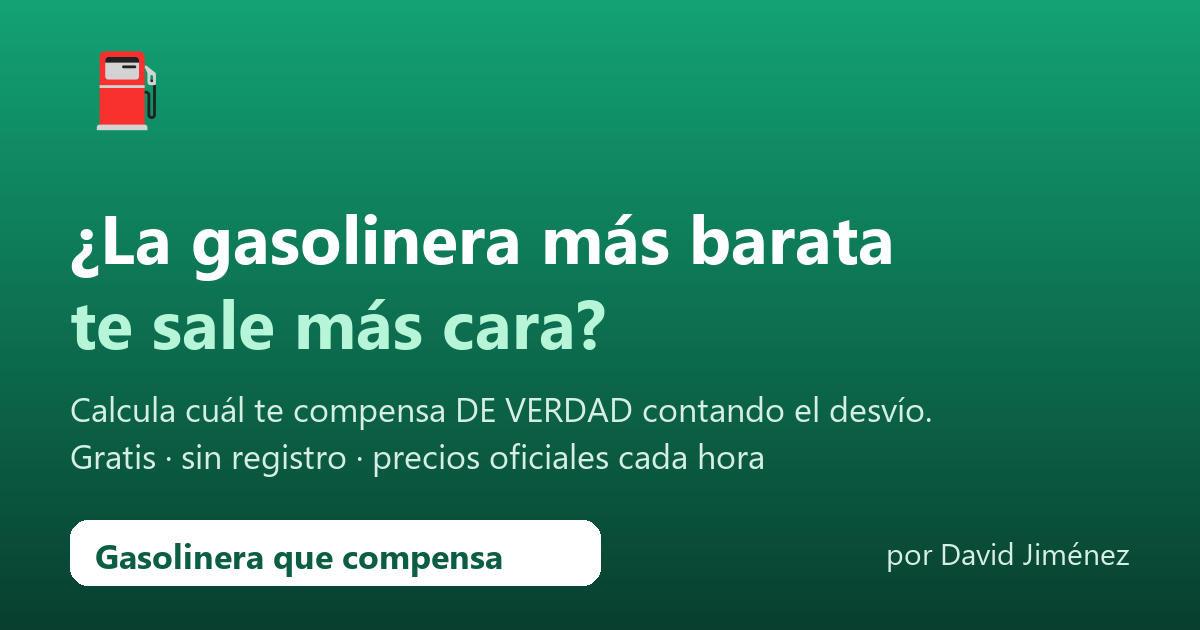
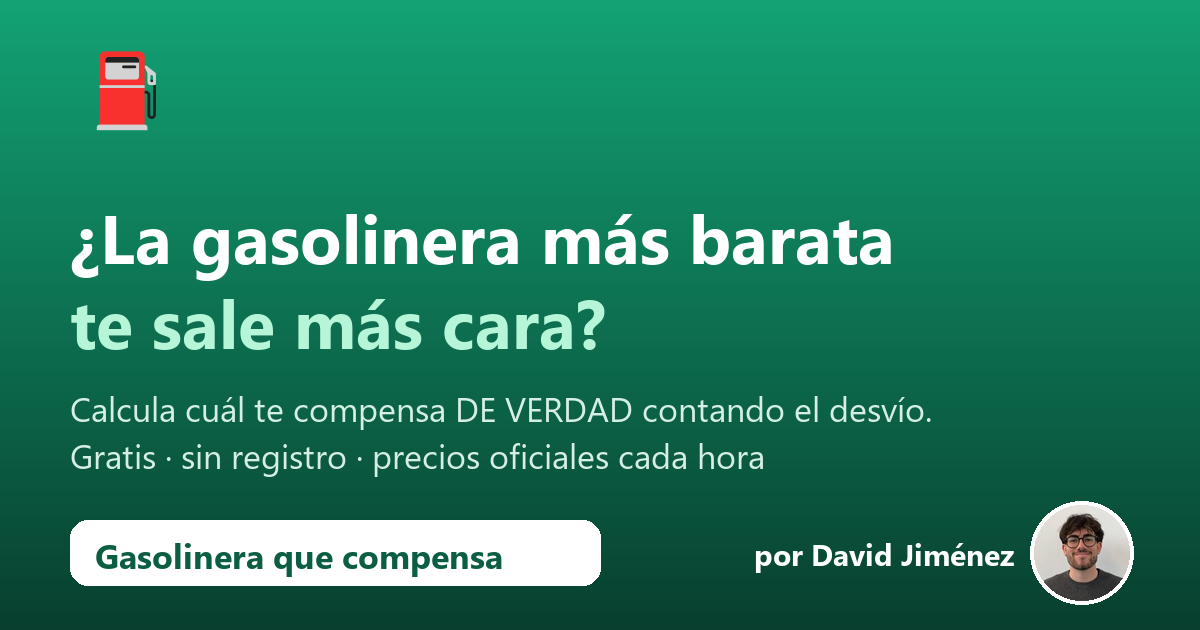
Foto del autor en la cabecera, la tarjeta y la imagen para compartir

Changed region(s): [[0.6167, 0.7841, 0.9558, 0.9651]]

diff --git a/docs/estilo.css b/docs/estilo.css
@@ -30,8 +30,9 @@ button { font: inherit; cursor: pointer; }
 /* ---------- cabecera ---------- */
 .hero { background: radial-gradient(120% 120% at 0% 0%, #13a374 0%, #0b5d43 55%, #083f2e 100%); color: #fff;
         padding: 22px 0 30px; border-radius: 0 0 28px 28px; }
+.foto-chip { width: 26px; height: 26px; border-radius: 50%; object-fit: cover; border: 2px solid rgba(255,255,255,.7); }
 .autor-chip { display: inline-flex; align-items: center; gap: 8px; color: #e6fff4; text-decoration: none; font-size: .85rem;
-              background: rgba(255, 255, 255, .12); padding: 5px 12px 5px 6px; border-radius: 999px; }
+              background: rgba(255, 255, 255, .12); padding: 4px 8px 4px 4px; border-radius: 999px; }
 .autor-chip:hover { background: rgba(255, 255, 255, .2); }
 .in { display: inline-grid; place-items: center; width: 20px; height: 20px; border-radius: 5px; background: #fff;
       color: var(--azul-in); font-weight: 800; font-size: .75rem; }
@@ -129,8 +130,7 @@ h2 { font-size: 1.15rem; margin: 0; letter-spacing: -.01em; }
 .ejemplo { background: var(--tarjeta); border-radius: 16px; padding: 14px; font-size: .92rem; color: var(--suave);
            box-shadow: var(--sombra); margin: 10px 0 0; }
 .autor { display: flex; gap: 14px; background: var(--tarjeta); border-radius: 20px; padding: 18px; box-shadow: var(--sombra); }
-.avatar { flex: 0 0 52px; height: 52px; border-radius: 50%; display: grid; place-items: center; font-weight: 800;
-          color: #fff; background: linear-gradient(135deg, #13a374, #0b5d43); }
+.avatar { flex: 0 0 64px; width: 64px; height: 64px; border-radius: 50%; object-fit: cover; border: 3px solid var(--verde-claro); }
 .autor p { margin: 0 0 8px; font-size: .92rem; }
 .quien { font-size: 1rem !important; }
 .botones-autor { display: flex; flex-wrap: wrap; gap: 8px; }

diff --git a/docs/index.html b/docs/index.html
@@ -24,7 +24,7 @@
   <header class="hero">
     <div class="contenedor">
       <a class="autor-chip" href="https://www.linkedin.com/in/davidjimenezramirez" target="_blank" rel="noopener">
-        <span class="in">in</span> por David Jiménez
+        <img class="foto-chip" src="autor.jpg" alt="" width="26" height="26"> por David Jiménez <span class="in">in</span>
       </a>
       <h1>¿La gasolinera más barata<br><span>te sale más cara?</span></h1>
       <p class="sub">Si está lejos, la gasolina que gastas en ir puede comerse el ahorro. Te decimos cuál
@@ -111,7 +111,7 @@
     </section>
 
     <section class="autor">
-      <div class="avatar" aria-hidden="true">DJ</div>
+      <img class="avatar" src="autor.jpg" alt="Foto de David Jiménez" width="64" height="64">
       <div>
         <p class="quien"><strong>David Jiménez</strong> · Ingeniero de automatización</p>
         <p>Hice esta herramienta con ayuda de IA para resolver una duda de todos los días. Si te ha ahorrado

diff --git a/scripts/og.py b/scripts/og.py
@@ -17,7 +17,18 @@ d.text((70, 385), "Calcula cuál te compensa DE VERDAD contando el desvío.", fo
 d.text((70, 432), "Gratis · sin registro · precios oficiales cada hora", font=f("segoeui.ttf", 34), fill=(213, 239, 228))
 d.rounded_rectangle([70, 520, 600, 585], radius=18, fill="white")
 d.text((95, 532), "Gasolinera que compensa", font=f("segoeuib.ttf", 34), fill=(11, 93, 67))
-d.text((W - 70, 552), "por David Jiménez", font=f("segoeui.ttf", 30), fill=(213, 239, 228), anchor="rm")
+foto = Path(__file__).resolve().parents[1] / "docs" / "autor.jpg"
+if foto.exists():  # foto redonda con borde blanco junto al nombre
+    tam = 96
+    ft = Image.open(foto).convert("RGB").resize((tam, tam), Image.LANCZOS)
+    mask = Image.new("L", (tam, tam), 0)
+    ImageDraw.Draw(mask).ellipse([0, 0, tam - 1, tam - 1], fill=255)
+    cx, cy = W - 70 - tam, 505
+    d.ellipse([cx - 4, cy - 4, cx + tam + 3, cy + tam + 3], fill="white")
+    im.paste(ft, (cx, cy), mask)
+    d.text((cx - 20, cy + tam // 2), "por David Jiménez", font=f("segoeuib.ttf", 30), fill="white", anchor="rm")
+else:
+    d.text((W - 70, 552), "por David Jiménez", font=f("segoeui.ttf", 30), fill=(213, 239, 228), anchor="rm")
 out = Path(__file__).resolve().parents[1] / "docs" / "og.png"
 im.save(out, optimize=True)
 print(out)
